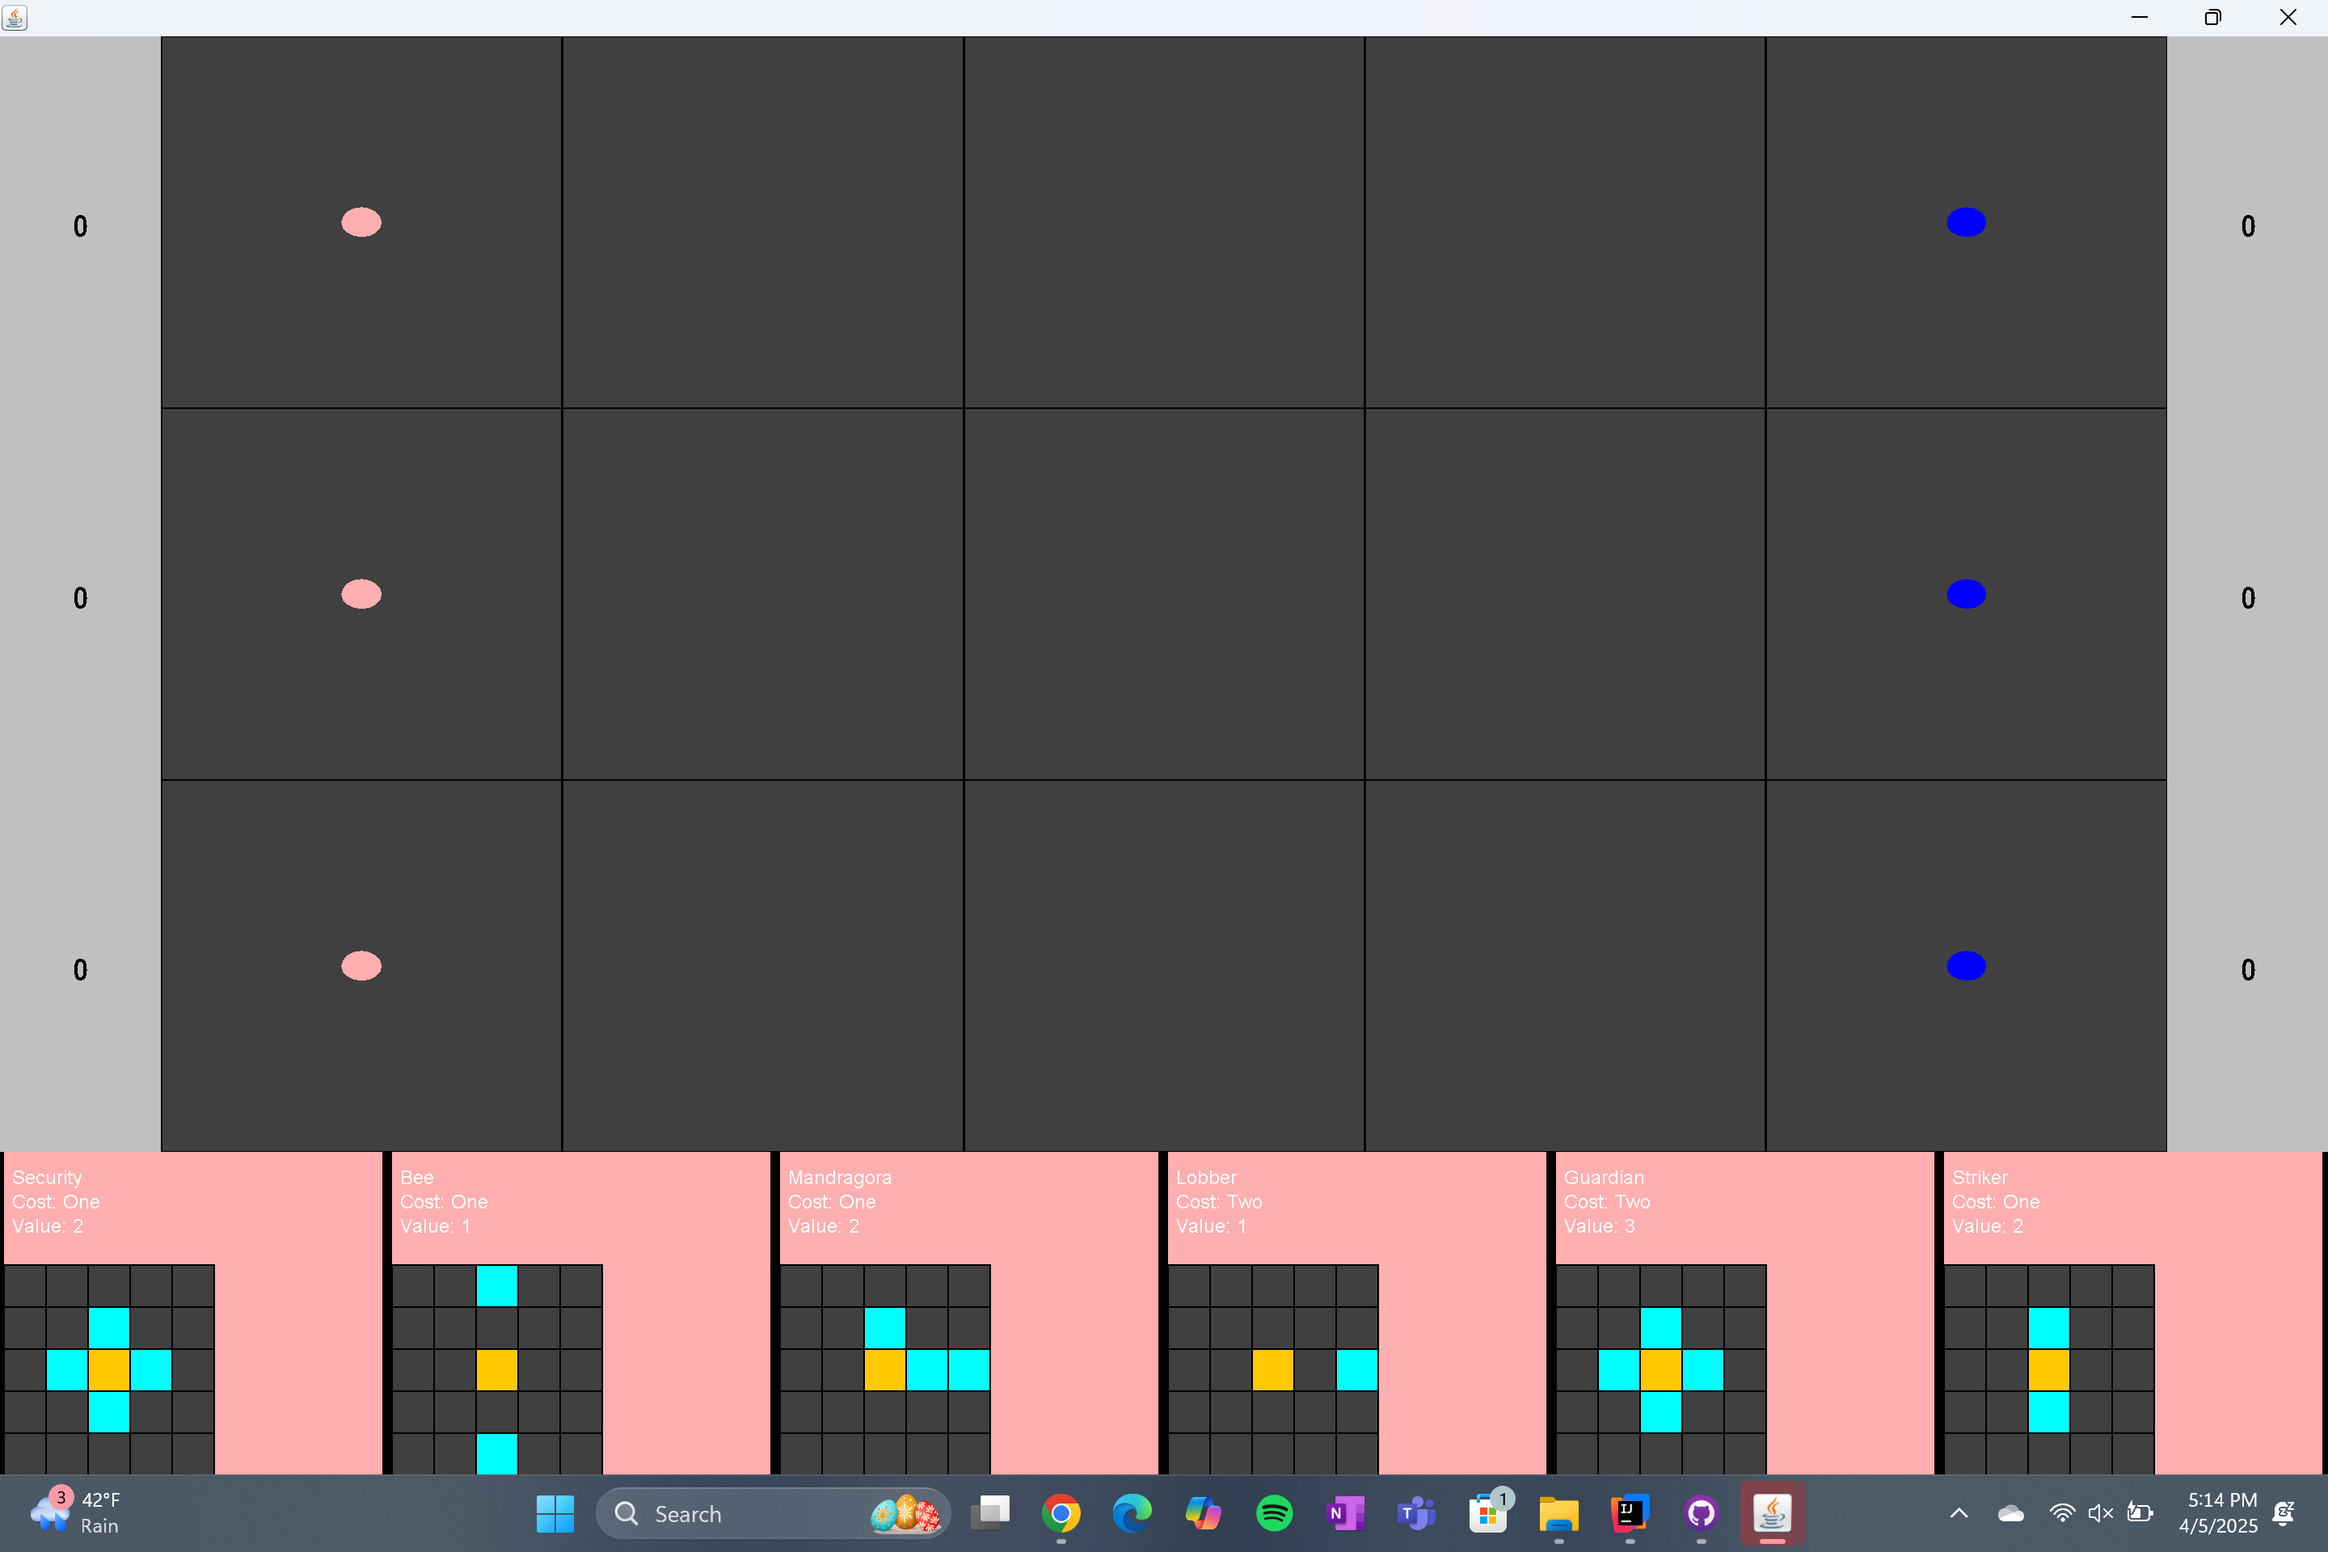
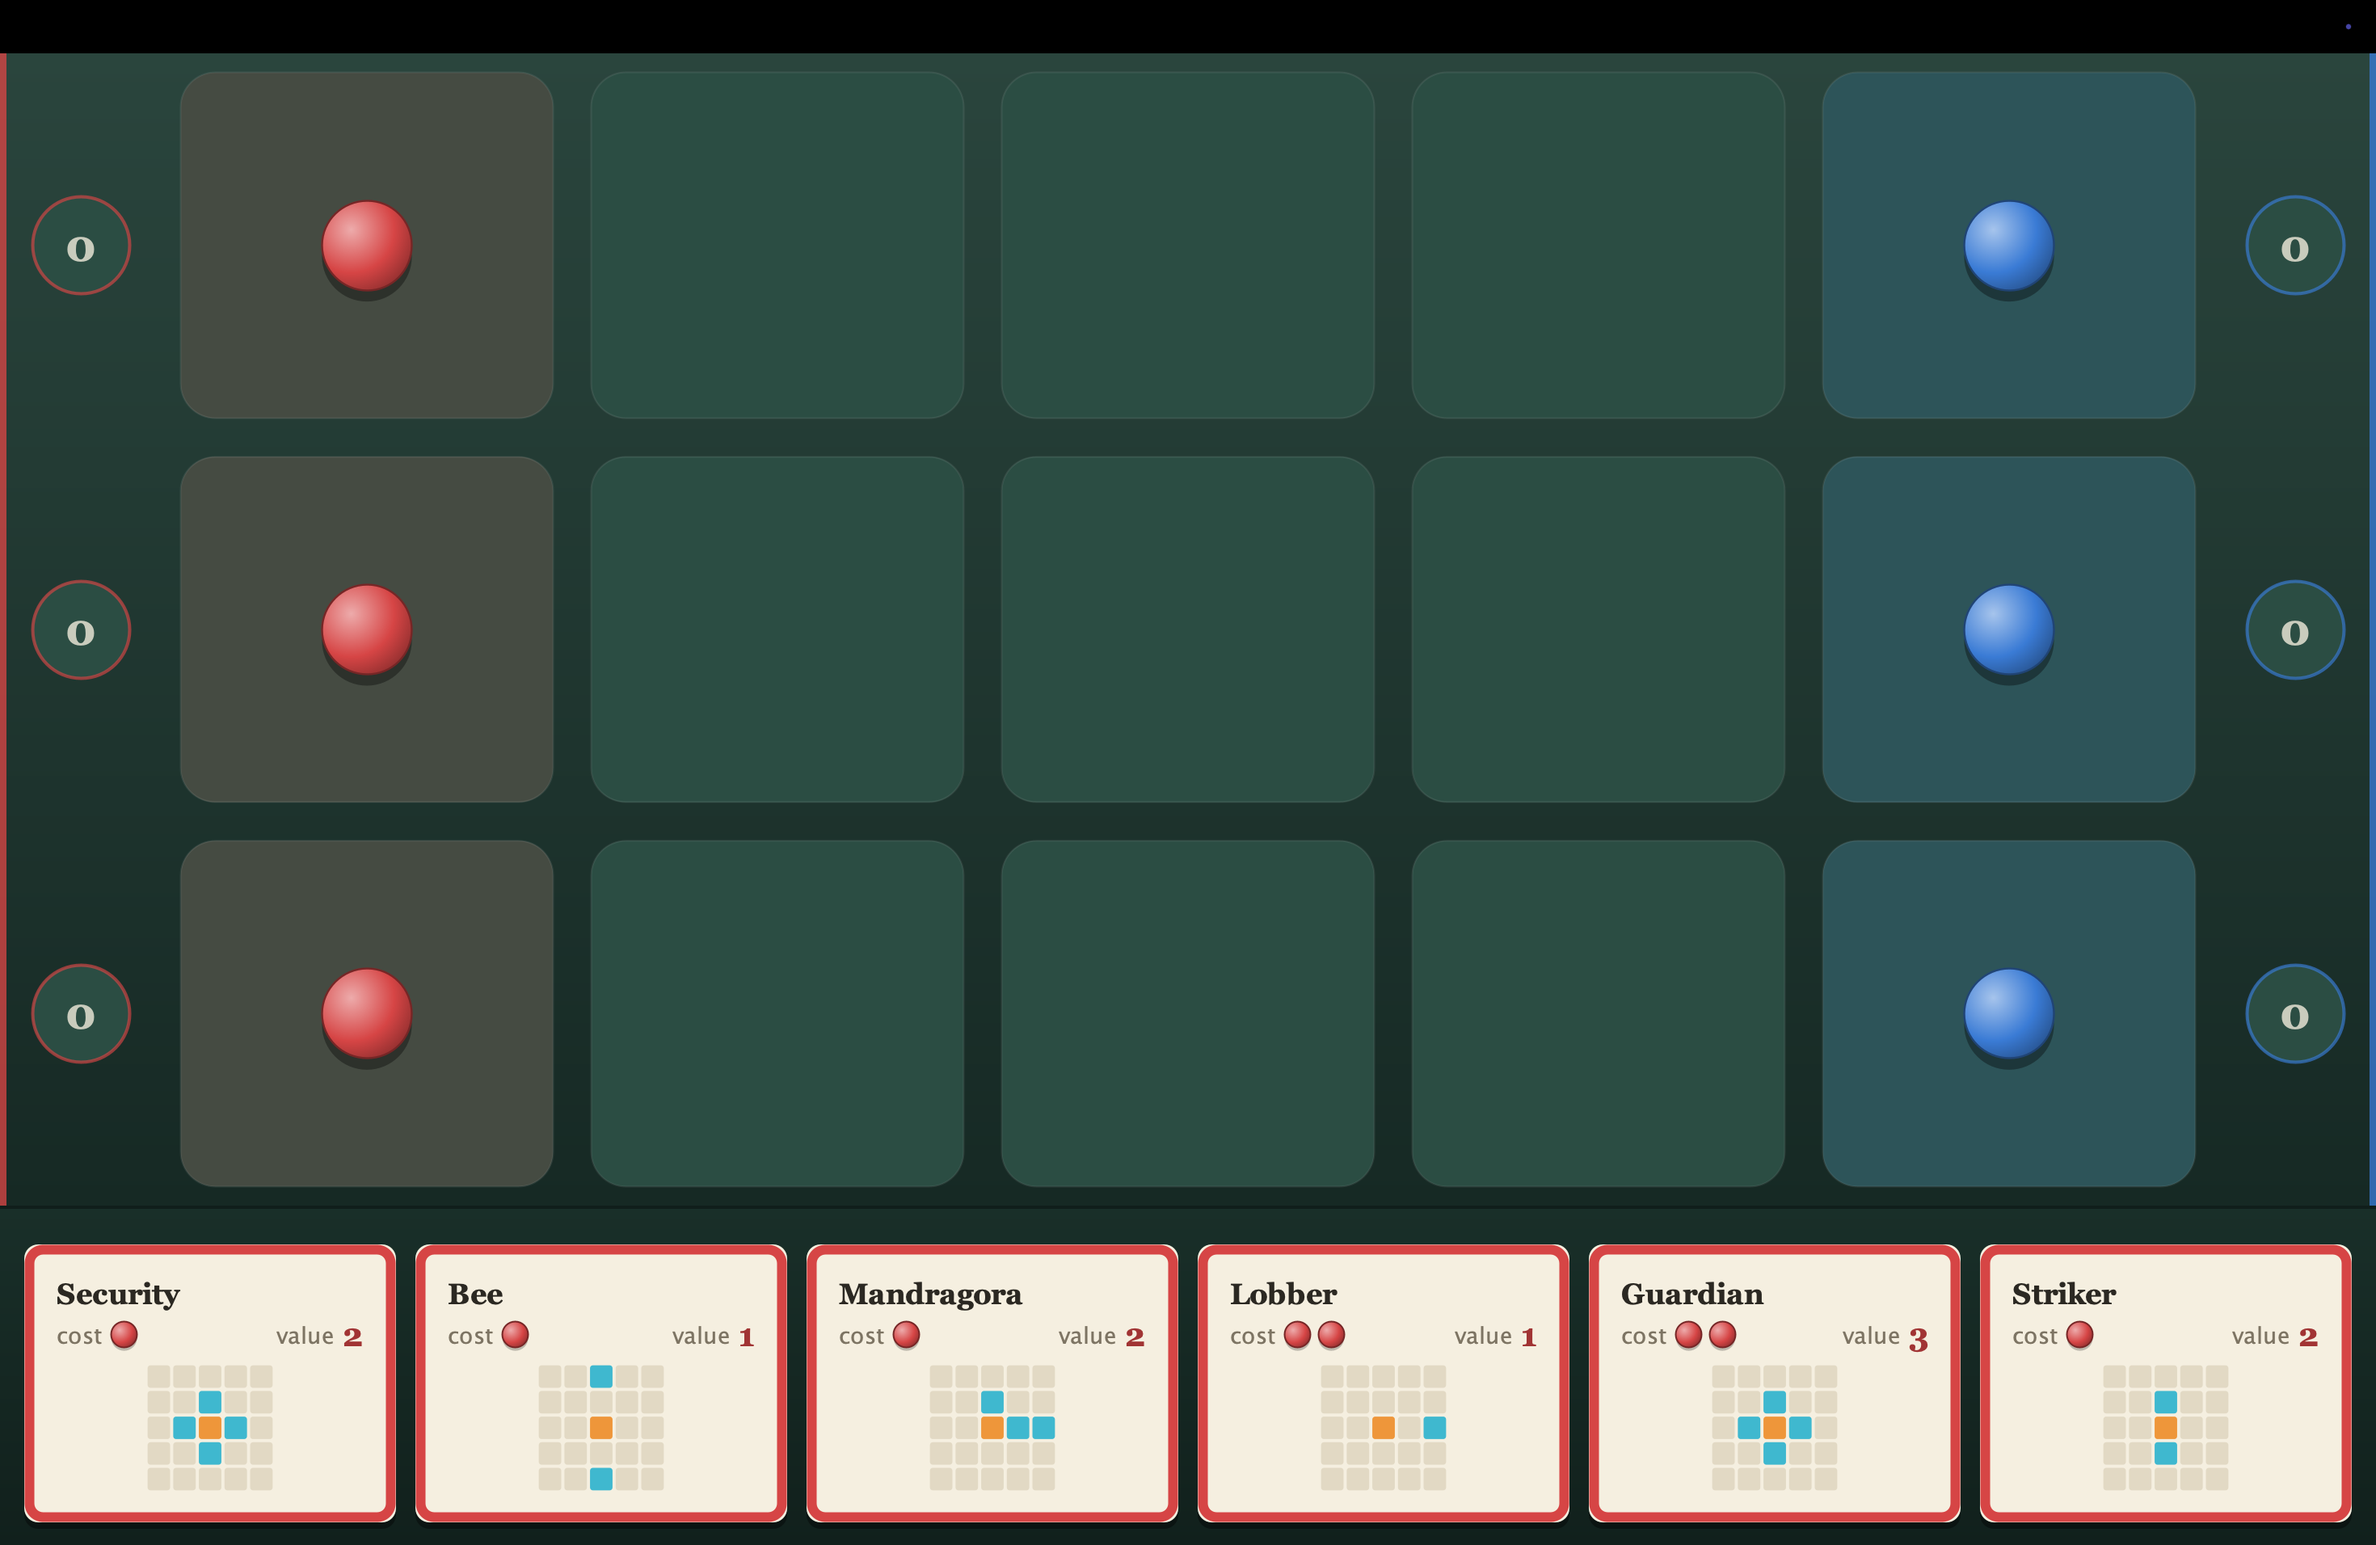
Updated Game Screenshots

diff --git a/README.md b/README.md
@@ -4,6 +4,8 @@
 
 Pawnsblood Board Game is a two-player strategy card game built in Java, with a Swing interface, AI opponents, and a JUnit test suite. Players place cards to spread influence across the board and compete to control rows. The game is inspired by Queen's Blood, the card game in Final Fantasy VII Rebirth.
 
+![NonTrivialPointInGame.png](GameScreenshots/NonTrivialPointInGame.png)
+
 Built with @rachelelevathingal for CS3500 (Object-Oriented Design) at Northeastern University, with the work split about evenly between us. I contributed heavily to the core game model, including the cell and card classes, starting the game and taking turns, and the read-only view of the game. I also focused on the AI strategies, the controller and player classes, deck loading, high-contrast mode, and the increase and decrease influence effects. Since the course ended, I've continued improving the project on my own: I redesigned the interface, fixed bugs in passing and game over, and added tests for the game rules (see Portfolio updates).
 
 ## Running the Game
@@ -18,7 +20,7 @@ The program takes four arguments: Red's deck file, Blue's deck file, Red's playe
 1. Open the project folder and set the Project SDK to Java 11 (File → Project Structure → Project).
 2. Open `src/pawnboard/PawnsBoard.java` and create a run configuration for its main method.
 3. Set the program arguments, for example:
-![Screenshot 2026-10-14 at 3.12.56 PM.png](../../../../var/folders/db/l052pxwx1h55dqc1y4v086wc0000gn/T/TemporaryItems/NSIRD_screencaptureui_8r42u2/Screenshot%202026-10-14%20at%203.12.56%E2%80%AFPM.png)
+![ProgramArguments.png](GameScreenshots/ProgramArguments.png)
 4. Run it. One window opens for each player.
 
 ## How to play
